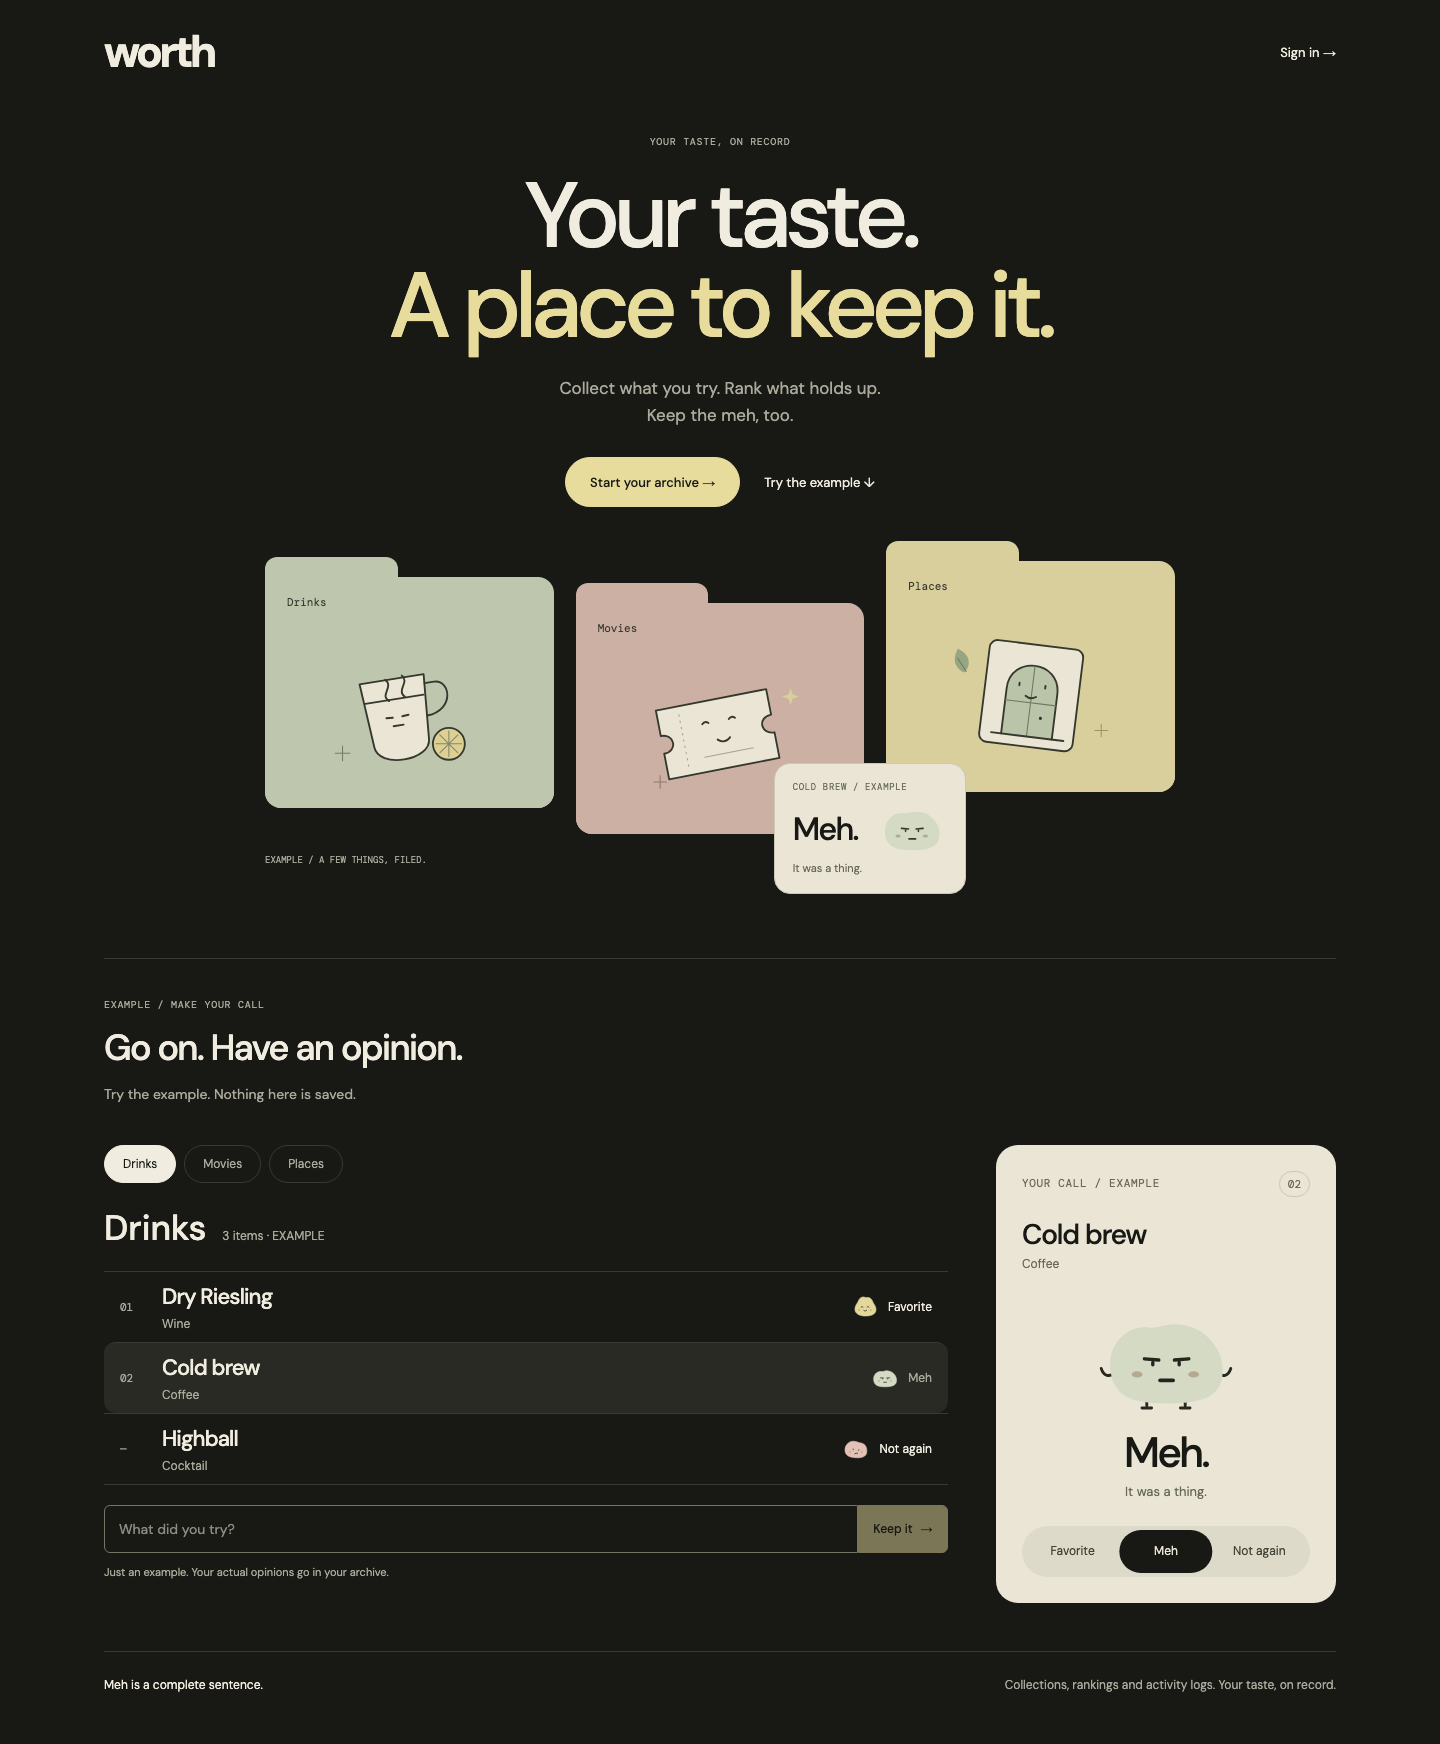
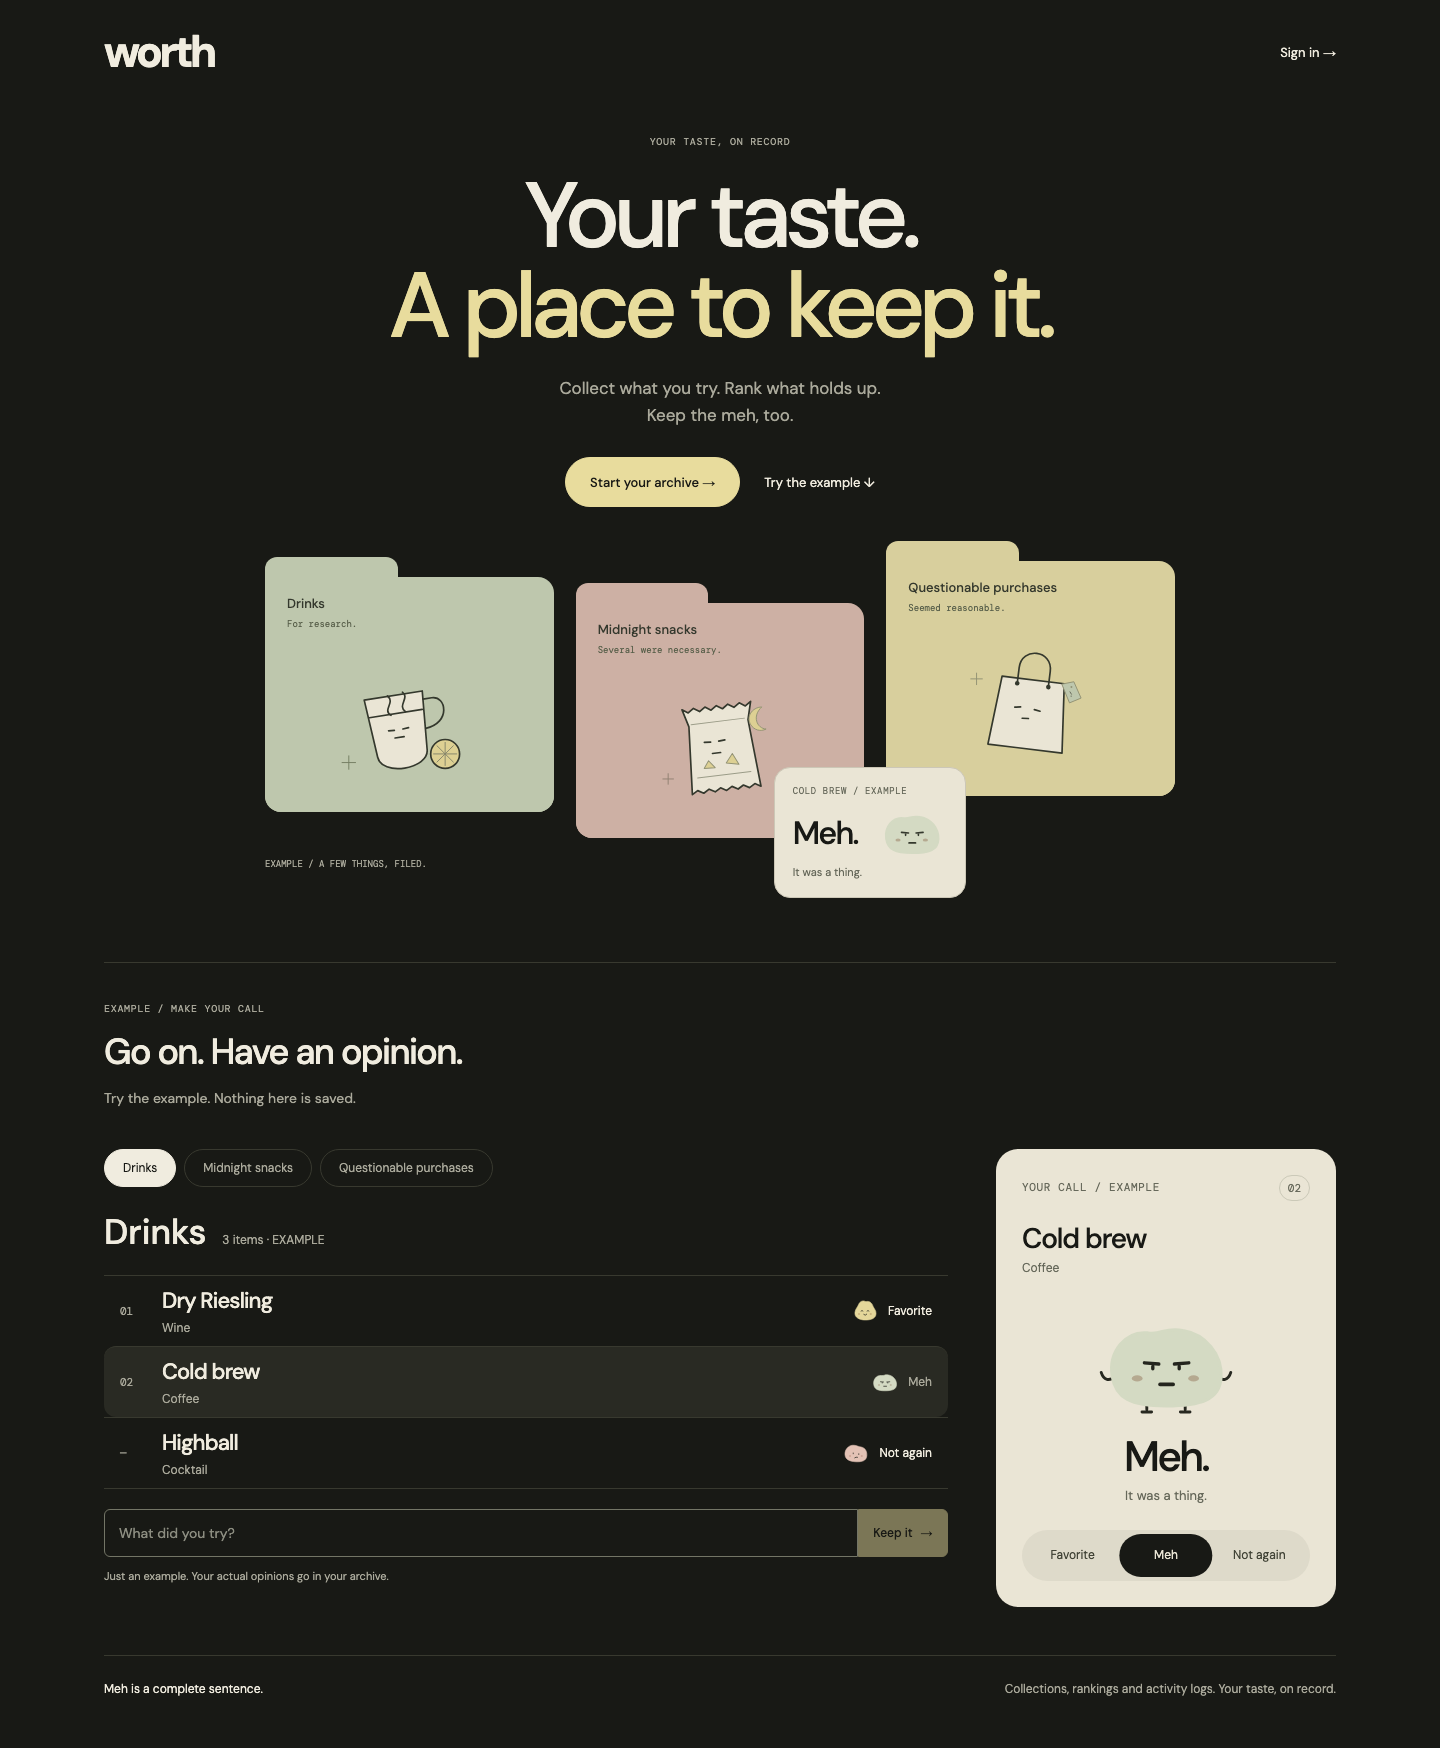
feat: give landing examples more playful collection topics

diff --git a/src/App.tsx b/src/App.tsx
@@ -52,6 +52,16 @@ function PrivateApp() {
   );
 }
 
+const landingTopics = [
+  { name: 'Drinks', caption: 'For research.', art: 'starter-covers/drinks-v2.svg' },
+  { name: 'Midnight snacks', caption: 'Several were necessary.', art: 'landing/midnight-snacks.svg' },
+  {
+    name: 'Questionable purchases',
+    caption: 'Seemed reasonable.',
+    art: 'landing/questionable-purchases.svg',
+  },
+];
+
 function Welcome({ authOrigin }: { authOrigin: string }) {
   const returnTo = window.location.href;
   return (
@@ -85,10 +95,13 @@ function Welcome({ authOrigin }: { authOrigin: string }) {
       </section>
       <figure className="landing-cabinet-visual">
         <div className="landing-cabinet-folders" aria-hidden="true">
-          {['Drinks', 'Movies', 'Places'].map((name) => (
+          {landingTopics.map(({ name, caption, art }) => (
             <div className="landing-cabinet-folder" key={name}>
-              <span>{name}</span>
-              <img src={`/art/starter-covers/${name.toLowerCase()}-v2.svg`} alt="" />
+              <span>
+                <strong>{name}</strong>
+                <small>{caption}</small>
+              </span>
+              <img src={`/art/${art}`} alt="" />
             </div>
           ))}
         </div>
@@ -123,15 +136,15 @@ const exampleCollections: Record<string, ExampleItem[]> = {
     { title: 'Cold brew', type: 'Coffee', decision: 'meh', ranked: true },
     { title: 'Highball', type: 'Cocktail', decision: 'would_not_again', ranked: false },
   ],
-  Movies: [
-    { title: 'Perfect Days', type: 'Film', decision: 'favorite', ranked: true },
-    { title: 'The Grand Budapest Hotel', type: 'Film', decision: 'favorite', ranked: true },
-    { title: 'The sequel', type: 'Film', decision: 'meh', ranked: false },
+  'Midnight snacks': [
+    { title: 'Chili crisps', type: 'Snack', decision: 'favorite', ranked: true },
+    { title: 'Emergency crackers', type: 'Snack', decision: 'meh', ranked: true },
+    { title: 'Mystery freezer dumpling', type: 'Snack', decision: 'would_not_again', ranked: false },
   ],
-  Places: [
-    { title: 'The corner bakery', type: 'Bakery', decision: 'favorite', ranked: true },
-    { title: 'That new lunch spot', type: 'Restaurant', decision: 'meh', ranked: true },
-    { title: 'The rooftop bar', type: 'Bar', decision: 'would_not_again', ranked: false },
+  'Questionable purchases': [
+    { title: 'Tiny desk lamp', type: 'Home', decision: 'favorite', ranked: true },
+    { title: 'Another tote bag', type: 'Bag', decision: 'meh', ranked: true },
+    { title: 'The miniature waffle maker', type: 'Kitchen', decision: 'would_not_again', ranked: false },
   ],
 };
 

diff --git a/art/ui-mocks/taste-cabinet/landing-cabinet/landing.html b/art/ui-mocks/taste-cabinet/landing-cabinet/landing.html
@@ -32,13 +32,16 @@
       <figure class="landing-cabinet-visual">
         <div class="landing-cabinet-folders" aria-hidden="true">
           <div class="landing-cabinet-folder">
-            <span>Drinks</span><img src="../../../../public/art/starter-covers/drinks-v2.svg" alt="" />
+            <span><strong>Drinks</strong><small>For research.</small></span
+            ><img src="../../../../public/art/starter-covers/drinks-v2.svg" alt="" />
           </div>
           <div class="landing-cabinet-folder">
-            <span>Movies</span><img src="../../../../public/art/starter-covers/movies-v2.svg" alt="" />
+            <span><strong>Midnight snacks</strong><small>Several were necessary.</small></span
+            ><img src="../../../../public/art/landing/midnight-snacks.svg" alt="" />
           </div>
           <div class="landing-cabinet-folder">
-            <span>Places</span><img src="../../../../public/art/starter-covers/places-v2.svg" alt="" />
+            <span><strong>Questionable purchases</strong><small>Seemed reasonable.</small></span
+            ><img src="../../../../public/art/landing/questionable-purchases.svg" alt="" />
           </div>
         </div>
         <div class="landing-cabinet-note">
@@ -119,7 +122,8 @@
         </aside>
         <div class="cabinet-demo-index">
           <div class="demo-tabs">
-            <button aria-pressed="true">Drinks</button><button>Movies</button><button>Places</button>
+            <button aria-pressed="true">Drinks</button><button>Midnight snacks</button
+            ><button>Questionable purchases</button>
           </div>
           <div class="demo-heading">
             <div>

diff --git a/src/landing-cabinet.css b/src/landing-cabinet.css
@@ -89,7 +89,7 @@
 .landing-cabinet-folder img {
   display: block;
   width: 100%;
-  aspect-ratio: 1.45;
+  aspect-ratio: 1.6;
   object-fit: cover;
   border-radius: 0 0 16px 16px;
 }
@@ -301,5 +301,29 @@
   .landing-cabinet-visual figcaption {
     max-width: 128px;
     line-height: 1.6;
+  }
+}
+
+.landing-cabinet-folder > span strong {
+  display: block;
+  font:
+    500 13px 'DM Sans',
+    sans-serif;
+  overflow-wrap: anywhere;
+}
+.landing-cabinet-folder > span small {
+  display: block;
+  margin-top: 6px;
+  font: 9px/1.5 var(--mono);
+  color: #59604b;
+}
+@media (max-width: 680px) {
+  .landing-cabinet-folder > span strong {
+    font-size: 11px;
+    line-height: 1.25;
+  }
+  .landing-cabinet-folder > span small {
+    font-size: 8px;
+    margin-top: 5px;
   }
 }

diff --git a/art/ui-mocks/taste-cabinet/build-landing-cabinet.py b/art/ui-mocks/taste-cabinet/build-landing-cabinet.py
@@ -4,8 +4,10 @@ ref=runpy.run_path(str(Path(__file__).with_name('build-reference.py')))
 root=Path(__file__).parent/'landing-cabinet';root.mkdir(exist_ok=True)
 head=ref['head'].replace('../../../','../../../../')+'<link rel="stylesheet" href="../../../../src/details.css"><link rel="stylesheet" href="../../../../src/cabinet-edition.css"><link rel="stylesheet" href="../../../../src/landing-cabinet.css">'
 hero='''<section class="landing-cabinet-hero"><p class="overline">YOUR TASTE, ON RECORD</p><h1>Your taste.<br><em>A place to keep it.</em></h1><p>Collect what you try. Rank what holds up.<br>Keep the meh, too.</p><div class="landing-cabinet-actions"><a class="button button-accent">Start your archive →</a><a>Try the example ↓</a></div></section><figure class="landing-cabinet-visual"><div class="landing-cabinet-folders" aria-hidden="true">'''
-for n in ['Drinks','Movies','Places']:hero+='<div class="landing-cabinet-folder"><span>'+n+'</span><img src="../../../../public/art/starter-covers/'+n.lower()+'-v2.svg" alt=""></div>'
+topics=[('Drinks','For research.','starter-covers/drinks-v2.svg'),('Midnight snacks','Several were necessary.','landing/midnight-snacks.svg'),('Questionable purchases','Seemed reasonable.','landing/questionable-purchases.svg')]
+for name,caption,asset in topics:
+ hero+='<div class="landing-cabinet-folder"><span><strong>'+name+'</strong><small>'+caption+'</small></span><img src="../../../../public/art/'+asset+'" alt=""></div>'
 hero+='</div><div class="landing-cabinet-note"><p class="overline">COLD BREW / EXAMPLE</p><div><strong>Meh.</strong>'+ref['face']('meh')+'</div><p>It was a thing.</p></div><figcaption>EXAMPLE / A FEW THINGS, FILED.</figcaption></figure>'
-landing=ref['landing'];a=landing.index('<div class="cabinet-demo-index">');z=landing.index('</section><footer',a);index=landing[a:z]
+landing=ref['landing'];a=landing.index('<div class="cabinet-demo-index">');z=landing.index('</section><footer',a);index=landing[a:z].replace('Movies','Midnight snacks').replace('Places','Questionable purchases')
 body='<main class="cabinet-landing landing-cabinet"><header class="cabinet-landing-top"><span class="product-wordmark">worth</span><a>Sign in →</a></header>'+hero+'<header class="landing-example-heading"><p class="overline">EXAMPLE / MAKE YOUR CALL</p><h2>Go on. Have an opinion.</h2><p>Try the example. Nothing here is saved.</p></header><section class="cabinet-demo">'+ref['slip']('Cold brew','Coffee','02',True)+index+'</section><footer class="cabinet-landing-bottom"><strong>Meh is a complete sentence.</strong><span>Collections, rankings and activity logs. Your taste, on record.</span></footer></main>'
 (root/'landing.html').write_text('<!doctype html><html lang="en"><meta charset="utf-8"><meta name="viewport" content="width=device-width,initial-scale=1"><title>Worth · Illustrated cabinet</title>'+head+'<body>'+body+'</body></html>')

diff --git a/art/ui-qa/landing-topics/README.md b/art/ui-qa/landing-topics/README.md
@@ -1,0 +1,16 @@
+# Landing topic revision
+
+Approved topics: Drinks / Midnight snacks / Questionable purchases. Their captions are
+For research. / Several were necessary. / Seemed reasonable. The existing cup is joined
+by native SVG snack-bag and shopping-bag artwork. Hero and demo categories match.
+
+The updated landing reference was rendered and inspected before app markup changes.
+Desktop 1440 × 900 and mobile 390 × 780 captures were compared beside that reference.
+Labels and tabs wrap on phones; desktop artwork uses a 1.6 ratio to keep the added captions
+inside the first view. This is the deliberate spacing adjustment from the prior revision.
+
+Browser checks exercise all topics, retained demo edits, reversible calls, unranked/no-call
+capture, keyboard focus, reduced motion and widths 320/390/430/768/900/1180/1440. The only
+fixture request is GET /api/me; there are no API writes. TypeScript and production build pass.
+These are explicitly labeled landing examples, not starter templates or private account data.
+See `qa-result.json` for results. Private collections and personal content are unchanged.

diff --git a/art/ui-mocks/BUILD-CONTRACT.md b/art/ui-mocks/BUILD-CONTRACT.md
@@ -349,3 +349,12 @@ a cream Cold brew / EXAMPLE slip carries the dry Meh reaction. The example label
 Below the hero, a distinct example section contains the existing interactive collection.
 Desktop pairs its index with a 340px opinion slip (300px <=900px); <=680px stacks index
 then slip. Auth, reversible calls, independent ranks and name-only demo capture remain.
+
+The approved landing topics are Drinks / Midnight snacks / Questionable purchases, with
+`For research.` / `Several were necessary.` / `Seemed reasonable.` captions. Keep the cup;
+use native snack-bag and shopping-bag illustrations in the existing clay/butter folders.
+Long names wrap on phones, as do the labeled demo tabs. These are signed-out examples,
+not starter templates or content to insert in private accounts. Demo categories have their
+own illustrative items; explicit calls and unranked/no-call creation retain their semantics.
+Desktop folder art uses the shared 1.6 ratio to accommodate the added captions within the
+first view. Mobile retains the established portrait crop and stagger.

diff --git a/VOICE.md b/VOICE.md
@@ -152,3 +152,8 @@ Current landing headline: `Your taste. A place to keep it.`
 Product copy: `Collect what you try. Rank what holds up. Keep the meh, too.`
 Example invitation: `Go on. Have an opinion.` / `Try the example. Nothing here is saved.`
 The hero's Cold brew opinion is explicitly labeled EXAMPLE; it is not a user's recorded call.
+
+Landing topics: `Drinks` / `Midnight snacks` / `Questionable purchases`.
+Their captions: `For research.` / `Several were necessary.` / `Seemed reasonable.`
+These are labeled examples of personal collection names, not descriptions silently saved
+onto accounts. Illustrative snack and purchase records stay in the local landing demo.

diff --git a/DESIGN.md b/DESIGN.md
@@ -206,3 +206,7 @@ centers `Your taste. A place to keep it.` over three staggered illustrated folde
 small explicitly labeled example Meh slip. Signup remains prominent. A separate working
 example sits below the hero; mobile shows its index before the opinion slip. This supersedes
 earlier landing layouts only. The accepted private cabinet screens remain current.
+
+The landing now illustrates Drinks, Midnight snacks and Questionable purchases, using a
+cup, snack bag and shopping bag. The working example uses the same topics. Long names
+wrap instead of shrinking; the accepted three-folder layout and cream Meh slip remain.

diff --git a/art/ui-mocks/taste-cabinet/landing-cabinet/README.md b/art/ui-mocks/taste-cabinet/landing-cabinet/README.md
@@ -17,3 +17,8 @@ is a separate section below the hero. Private archive layouts remain current.
 - No API writes, testimonials, invented user counts or opinions outside labeled examples.
 
 References rendered at 1440 × 900 and 390 × 780 with full-page scrolling.
+
+Current topic revision: Drinks, Midnight snacks and Questionable purchases. Captions are
+For research. / Several were necessary. / Seemed reasonable. Native SVG illustrations
+pair the cup with a snack bag and shopping bag. Demo tabs match those topics and wrap
+on mobile. These examples do not change personal collections or starter templates.
